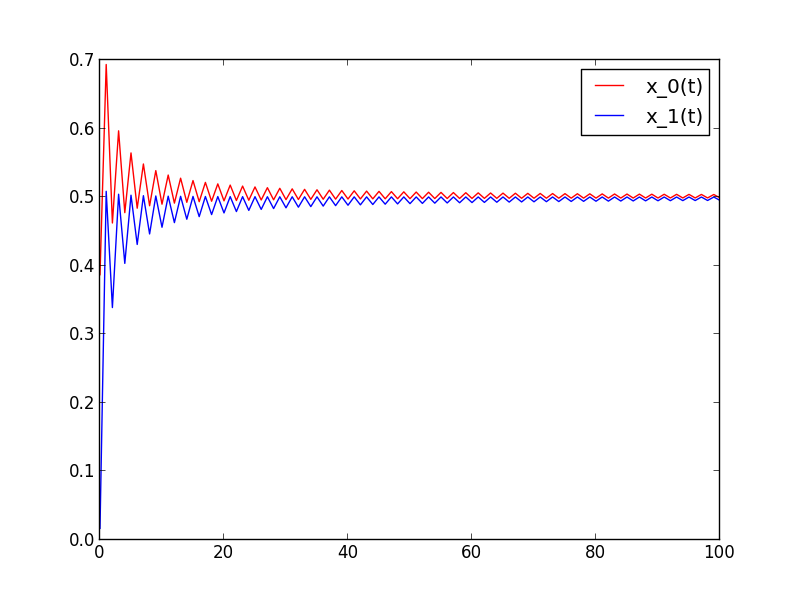
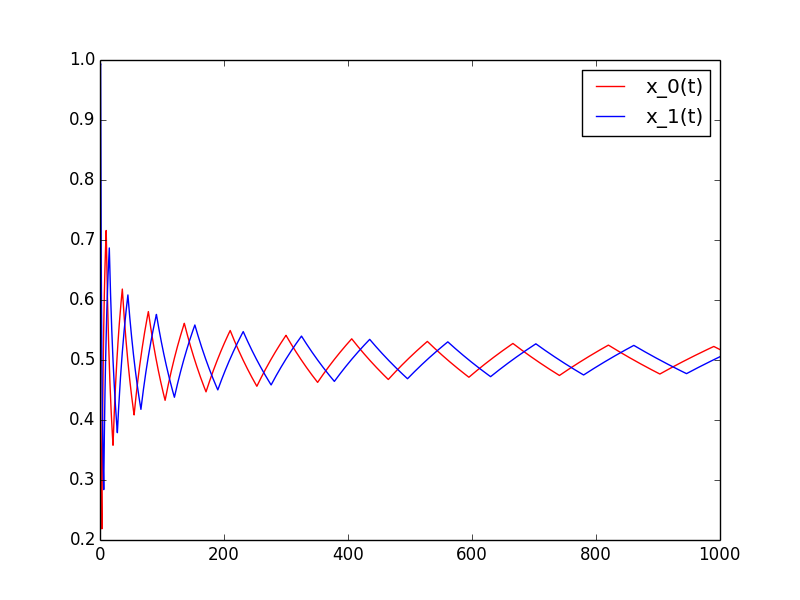
期待利得を行列計算で求まるようにしました。

diff --git a/fictplay.py b/fictplay.py
@@ -11,8 +11,8 @@ def fictplay(t):
     gain_1 = np.array([[-1, 1], [1, -1]])   #player1
 	
     for i in range(t):
-	    pro_0 = np.array([1-x_0[i], x_0[i]])      #probability 0 or 1
-        exp_gain_0 = np.dot(gain_0, pro_0)        #expected gain
+        pro_0 = np.array([1-x_0_t[i], x_0_t[i]])      #probability 0 or 1
+        exp_gain_0 = np.dot(gain_0, pro_0)            #expected gain
         if exp_gain_0[0] > exp_gain_0[1]:
             a_0_i = 0
         elif exp_gain_0[0] == exp_gain_0[1]:
@@ -20,7 +20,7 @@ def fictplay(t):
         else:
             a_0_i = 1
 
-        pro_1 = np.array([1-x_1[i], x_1[i]])   
+        pro_1 = np.array([1-x_1_t[i], x_1_t[i]])   
         exp_gain_1 = np.dot(gain_1, pro_1)
         if exp_gain_1[0] > exp_gain_1[1]:
             a_1_i = 0
@@ -29,26 +29,26 @@ def fictplay(t):
         else:
             a_1_i = 1
         
-        x_0_i1 = x_0[i] + (a_1_i - x_0[i]) / (i+2)
-        x_1_i1 = x_1[i] + (a_0_i - x_1[i]) / (i+2)
+        x_0_i1 = x_0_t[i] + (a_1_i - x_0_t[i]) / (i+2)
+        x_1_i1 = x_1_t[i] + (a_0_i - x_1_t[i]) / (i+2)
         x_0_t.append(x_0_i1)
         x_1_t.append(x_1_i1)
 
     return x_0_t, x_1_t
 
 
-x_0, x_1 = fictplay(1000)
+#x_0, x_1 = fictplay(1000)
          
-plt.plot(x_0, 'r-', label="x_0(t)")
-plt.plot(x_1, 'b-', label="x_1(t)")
-plt.legend()
+#plt.plot(x_0, 'r-', label="x_0(t)")
+#plt.plot(x_1, 'b-', label="x_1(t)")
+#plt.legend()
 #plt.savefig('fictplay0.png')
-plt.show()
-
-#x_0_t = []
-#for i in range(100):
-    #x_0, x_1 = fictplay(100)
-    #x_0_t.append(x_0[-1])
-#plt.hist(x_0_t, 100)
-#plt.savefig('fictplay_hist.png')
 #plt.show()
+
+x_0_t = []
+for i in range(100):
+    x_0, x_1 = fictplay(100)
+    x_0_t.append(x_0[-1])
+plt.hist(x_0_t)
+plt.savefig('fictplay_hist.png')
+plt.show()
